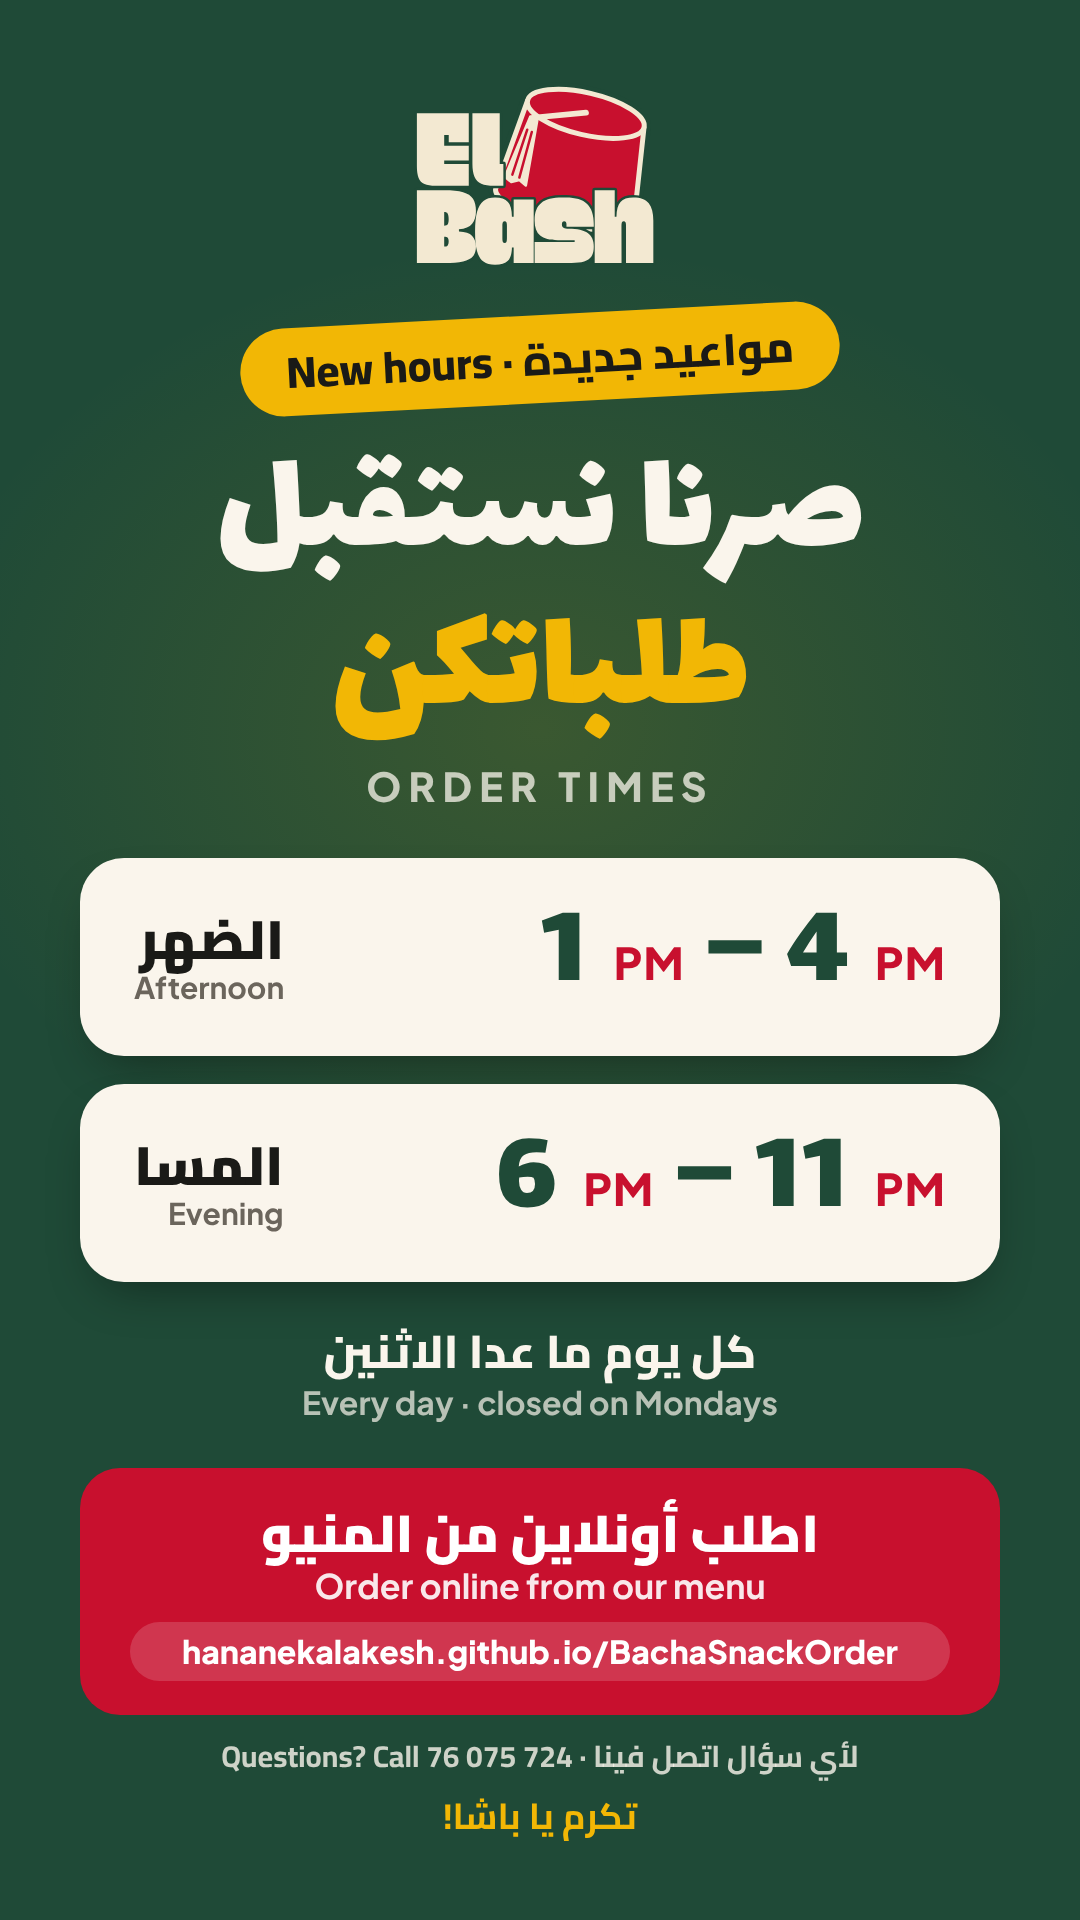
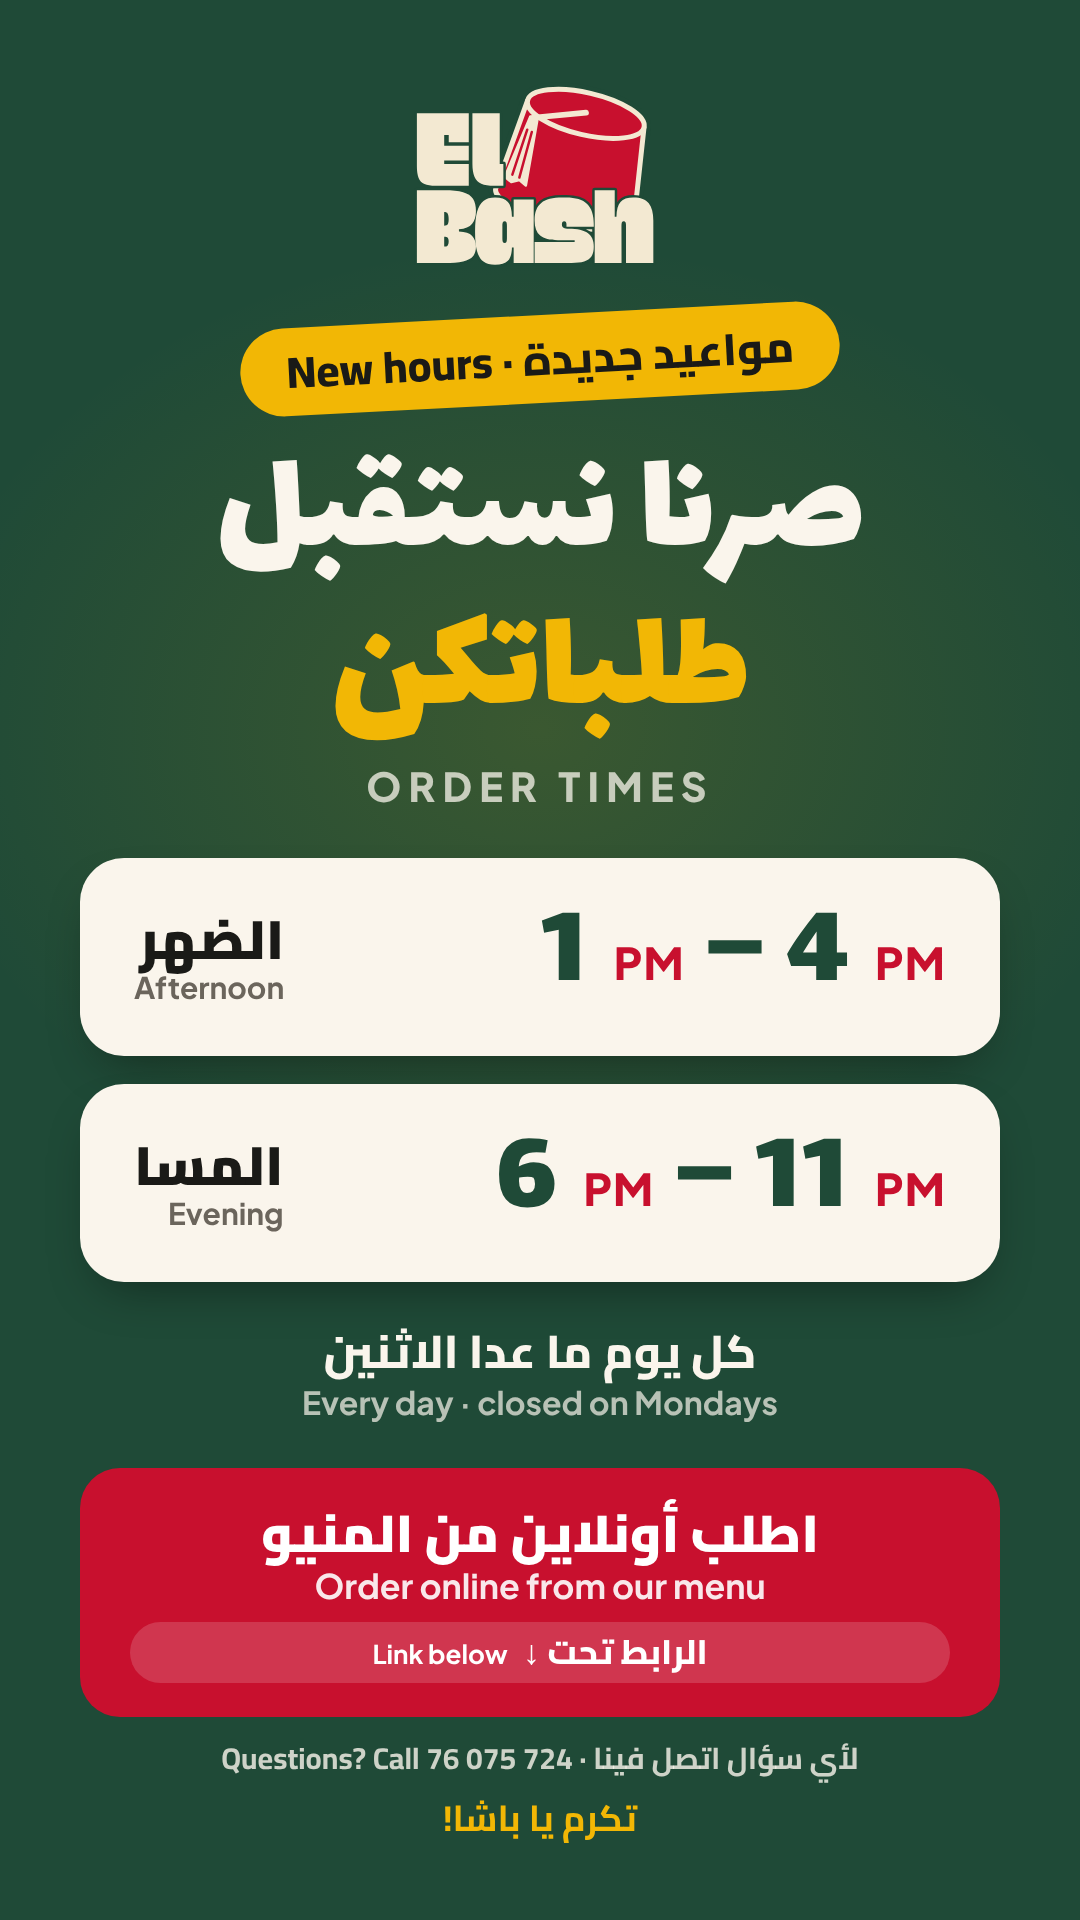
New-hours story: "Link below" instead of the address; listed for Copy to Drive
Claude-Session: https://claude.ai/code/session_01DyQKE9mDPFAwzqeFTgFfbZ

diff --git a/assets/stories/new-hours.html b/assets/stories/new-hours.html
@@ -26,7 +26,8 @@ h1 span{color:var(--mustard)}
 .cta{margin-top:44px;background:var(--red);color:#fff;border-radius:40px;padding:34px 50px;width:100%;text-align:center;position:relative}
 .cta b{display:block;font:900 52px/1.2 Cairo}
 .cta i{display:block;font:700 34px/1.3 'Plus Jakarta Sans';font-style:normal;opacity:.9;direction:ltr}
-.cta span{display:block;margin-top:14px;font:800 32px/1.2 'Plus Jakarta Sans';direction:ltr;background:rgba(255,255,255,.16);border-radius:999px;padding:10px 18px}
+.cta span{display:block;margin-top:14px;font:800 34px/1.2 Cairo;background:rgba(255,255,255,.16);border-radius:999px;padding:10px 18px}
+.cta span em{font:700 26px 'Plus Jakarta Sans';font-style:normal;margin-right:8px}
 .ask{margin-top:22px;font:700 30px/1.3 Cairo;color:rgba(250,245,236,.8);position:relative}
 .sig{margin-top:22px;font:700 36px/1 Cairo;color:var(--mustard);position:relative}
 </style></head><body>
@@ -39,7 +40,7 @@ h1 span{color:var(--mustard)}
   <div class="slot"><div class="t">6 <small>PM</small> – 11 <small>PM</small></div><div class="l"><b>المسا</b><i>Evening</i></div></div>
 </div>
 <div class="mon">كل يوم ما عدا الاثنين<i>Every day · closed on Mondays</i></div>
-<div class="cta"><b>اطلب أونلاين من المنيو</b><i>Order online from our menu</i><span>hananekalakesh.github.io/BachaSnackOrder</span></div>
+<div class="cta"><b>اطلب أونلاين من المنيو</b><i>Order online from our menu</i><span>الرابط تحت ↓ <em>Link below</em></span></div>
 <div class="ask">لأي سؤال اتصل فينا · Questions? Call 76 075 724</div>
 <div class="sig">تكرم يا باشا!</div>
 </body></html>
